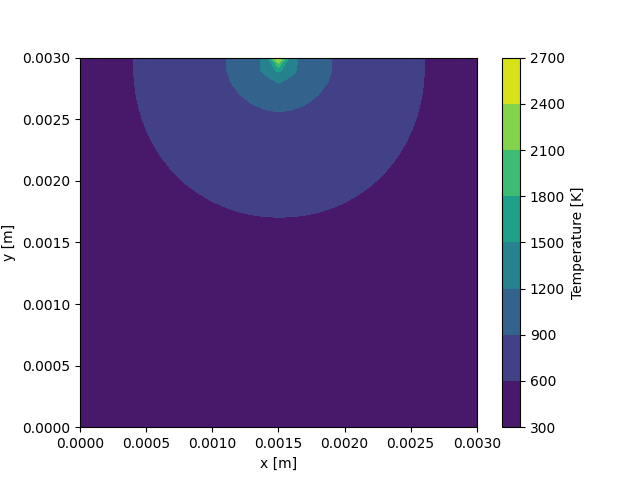
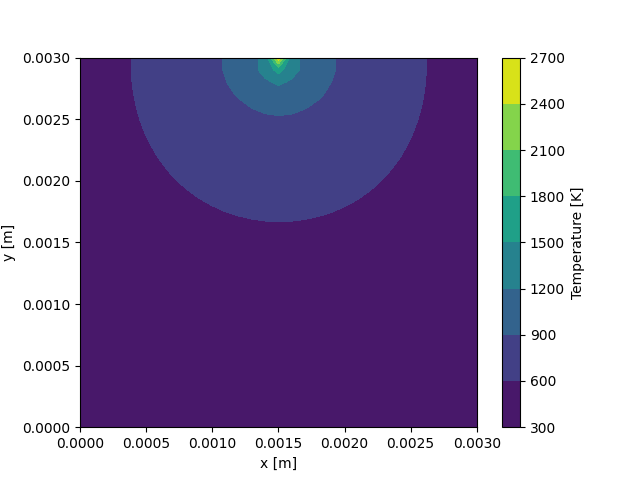
Adds changes to interpolation for plotting and solving.

diff --git a/report_code/tempPlots.py b/report_code/tempPlots.py
@@ -38,11 +38,11 @@ def VelocityMagnitudes(u,v):
 def VelocityField(x,y,u,v,q):
 
     xx, yy = np.meshgrid(x, y)
-    u = np.transpose(u)
-    v = np.transpose(v)
+    u = np.transpose(u) * 10
+    v = np.transpose(v) * 10
 
     plt.figure()
-    plt.quiver(xx,yy,u,v, scale= 10, cmap='viridis')
+    plt.quiver(xx,yy,u,v, scale= 0.5, cmap='viridis')
     plt.xlabel('x [m]', fontsize = 14 )
     plt.ylabel('y [m]', fontsize = 14 )
     #plt.title(f'Velocity Vectors at t = 20s, q = {q}', fontsize = 14)
@@ -56,6 +56,9 @@ def VelocityField(x,y,u,v,q):
 
 def stream_plot(x, y, u, v, q):
     xx, yy = np.meshgrid(x, y)
+    u = 0.5 * (u[1:, :] + u[:-1, :])
+    v = 0.5 * (v[:, 1:] + v[:, -1:])
+
     u = np.transpose(u)
     v = np.transpose(v)
 

diff --git a/report_code/velocityMethods.py b/report_code/velocityMethods.py
@@ -19,8 +19,8 @@ def fractional_step_method(u, v, psi, T, nu, dt, dx, dy, Nx, Ny, q, solverID, to
     u_interpolated = 0.25 * (u[:-1, :-1] + u[:-1, 1:] + u[1:, :-1] + u[1:, 1:]) # (31, 30)
     v_interpolated = 0.25 * (v[:-1, :-1] + v[:-1, 1:] + v[1:, :-1] + v[1:, 1:]) # (30, 31)
 
-    # print("u_interpolated: ", u_interpolated.shape) # (32, 31)
-    # print("v_interpolated: ", v_interpolated.shape) # (31, 32)
+    # print("u_interpolated: ", u_interpolated.shape)
+    # print("v_interpolated: ", v_interpolated.shape)
 
     conv_u = compute_convection_u(u, v_interpolated, dx, dy) # (32, 31)
     conv_v = compute_convection_v(v, u_interpolated, dx, dy) # (31, 32)

diff --git a/report_code/tempMethods.py b/report_code/tempMethods.py
@@ -22,6 +22,9 @@ def TempFieldTimeStep(u, v, alpha, dt, dx, dy, Nx, Ny, T, Neu_BC, Tpre):
     num_timesteps: number of time steps
     """
 
+    u = 0.5 * (u[1:, :] + u[:-1, :])
+    v = 0.5 * (v[:, 1:] + v[:, -1:])
+
     beta_x = alpha*dt/(dx**2)
     beta_y = alpha*dt/(dy**2)
 

diff --git a/report_code/mainScript.py b/report_code/mainScript.py
@@ -139,4 +139,4 @@ v_plot[:-1, :] = v[:,:,-1]
 print(u_plot.shape, v_plot.shape)
 
 tempPlots.VelocityField(u_x,v_y,u_plot,v_plot,q)
-tempPlots.stream_plot(u_x,v_y,u_plot,v_plot,q)
+tempPlots.stream_plot(x,y,u[:,:,-1], v[:,:,-1],q)
